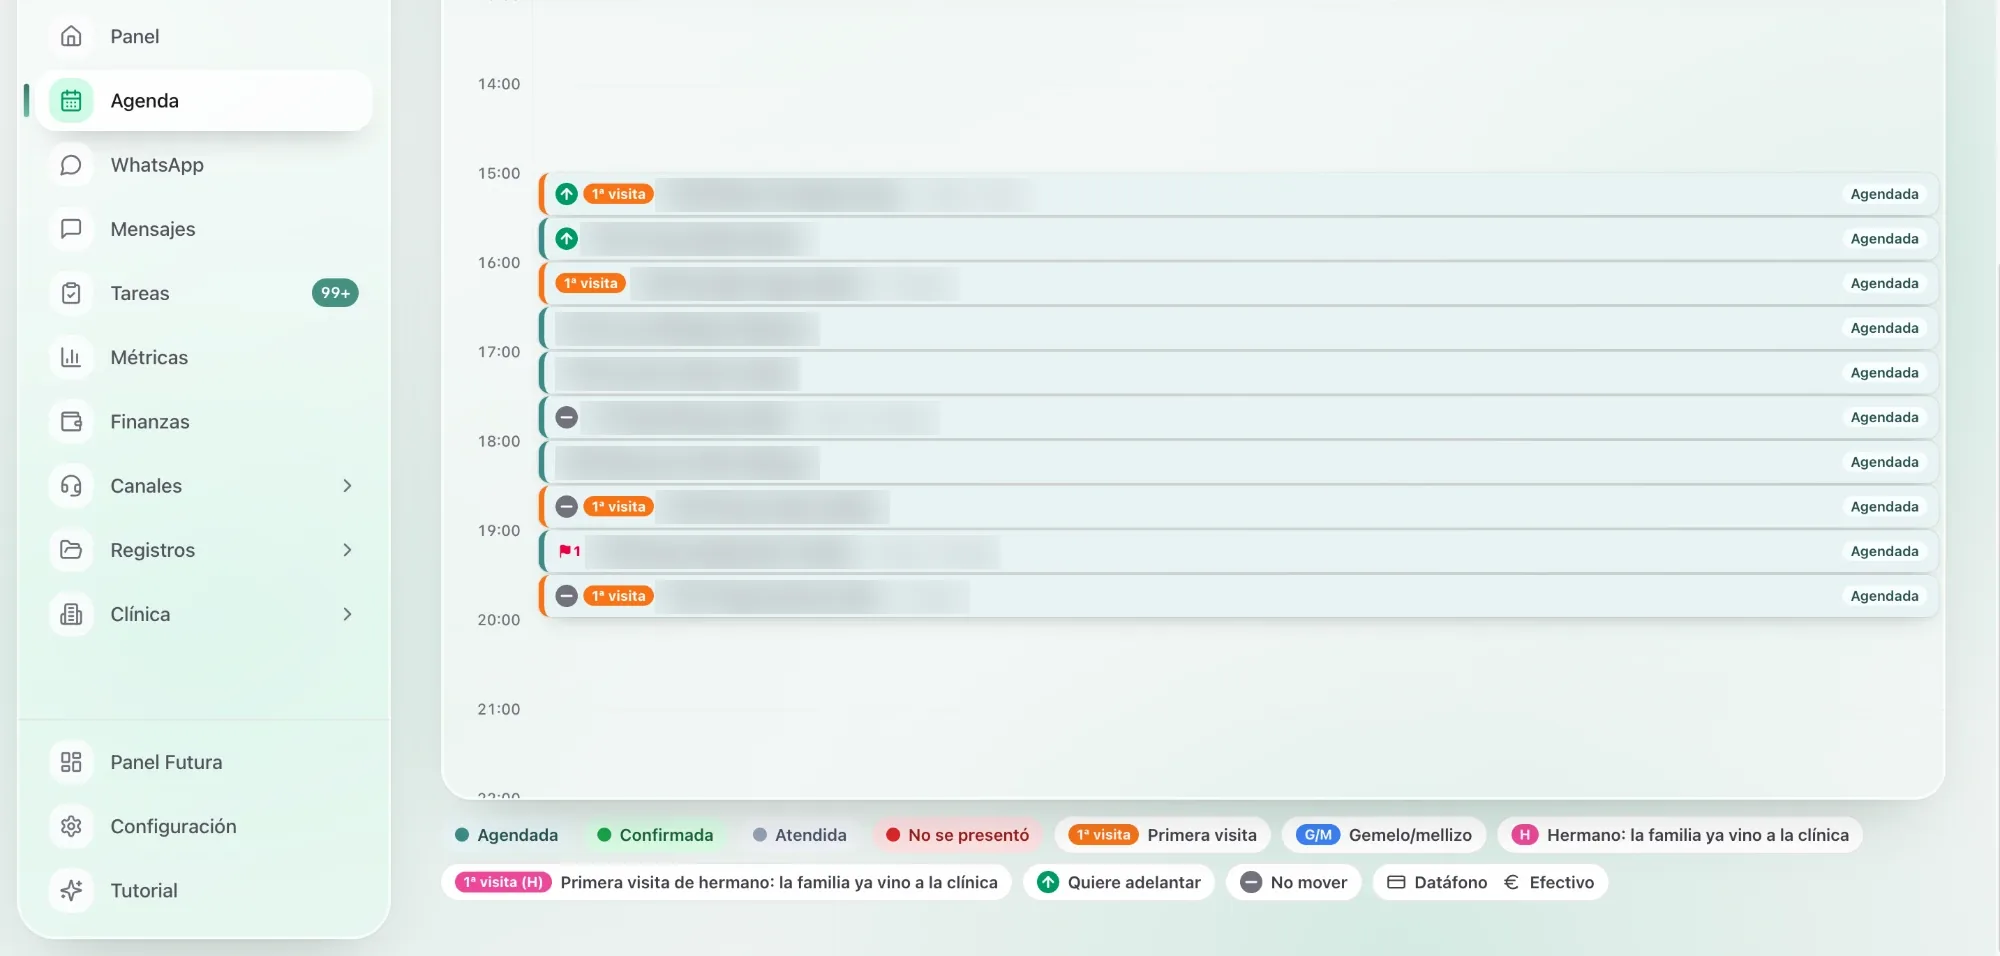
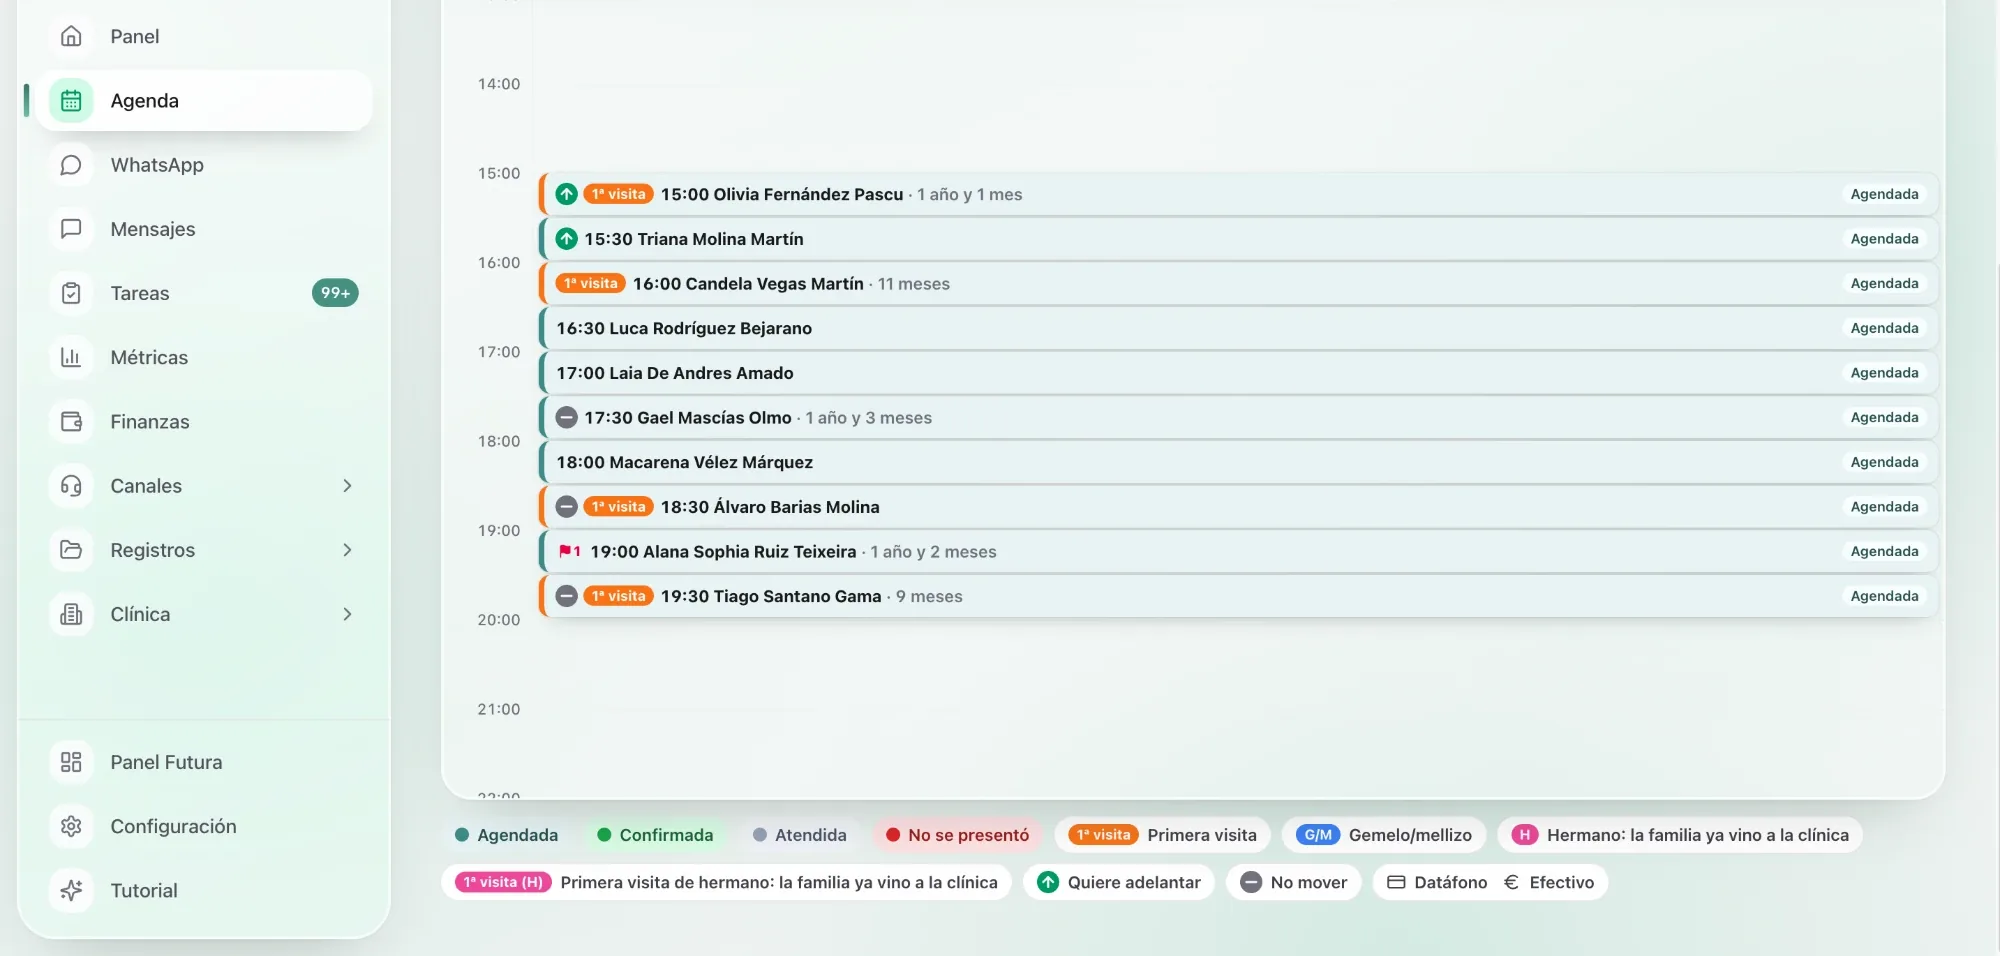
fix: FUTURA screenshots show names, Spain flag, clearer motions
- Screenshots: only phone numbers and patient surnames are blurred; panel
  and agenda are shown as-is
- Client tag uses an inline Spain flag instead of the country name
- FUTURA "dashboard and finance" motion: occupancy ring + KPI rows
- SYNEX Finanzas card preview: AI receipt validation (large, white on
  ember) instead of the P&L chart

Claude-Session: https://claude.ai/code/session_013VtYwE7Ekungkn3F8TWYDq

Changed region(s): [[0.279, 0.182, 0.496, 0.6674]]

diff --git a/src/lib/i18n.tsx b/src/lib/i18n.tsx
@@ -17,7 +17,7 @@ const translations: Record<Language, Translations> = {
     fin_v_comprobantes_benefit: "Menos riesgo",
     fin_v_entradas_benefit: "Más tiempo libre",
     synex_eyebrow: "Caso propio",
-    fu_tag: "Cliente · Futura Solutions (España)",
+    fu_tag: "Cliente · Futura Solutions",
     fu_shot_agenda: "Agenda del día con primeras visitas, estados y quién quiere adelantar.",
     fu_shot_wa: "Bandeja de WhatsApp con el resumen del caso generado por IA al lado de la conversación.",
     fu_card_roi: "Plataforma para clínicas y sanatorios **100% automatizada con IA**: agenda que se rellena sola, agentes de voz y WhatsApp.",
@@ -42,7 +42,7 @@ const translations: Record<Language, Translations> = {
     fu_v_tareas_desc: "El equipo coordina dentro de la app y **un mensaje se convierte en tarea** con un clic, con paciente y vencimiento.",
     fu_v_tareas_benefit: "Equipo coordinado",
     fu_v_panel_title: "Panel inteligente y finanzas",
-    fu_v_panel_desc: "Ocupación, faltas, ingresos y **lo que requiere atención hoy**, ordenado por urgencia.",
+    fu_v_panel_desc: "Ocupación, citas que agendó la IA, faltas e ingresos **en un solo vistazo**, con lo urgente primero.",
     fu_v_panel_benefit: "Mejores decisiones",
     fu_result: "Menos teléfono y menos tareas repetitivas, más agenda ocupada: el personal **gana tiempo para lo que importa**, atender pacientes.",
     synex_v_expediente_benefit: "Mejores decisiones",
@@ -272,7 +272,7 @@ const translations: Record<Language, Translations> = {
     fin_v_comprobantes_benefit: "Less risk",
     fin_v_entradas_benefit: "More free time",
     synex_eyebrow: "Own venture",
-    fu_tag: "Client · Futura Solutions (Spain)",
+    fu_tag: "Client · Futura Solutions",
     fu_shot_agenda: "Daily schedule with first visits, statuses and who wants an earlier slot.",
     fu_shot_wa: "WhatsApp inbox with the AI-generated case summary next to the conversation.",
     fu_card_roi: "A platform for clinics and hospitals, **100% automated with AI**: a self-filling schedule plus voice and WhatsApp agents.",
@@ -297,7 +297,7 @@ const translations: Record<Language, Translations> = {
     fu_v_tareas_desc: "The team coordinates inside the app and **a message becomes a task** in one click, with patient and due date.",
     fu_v_tareas_benefit: "A coordinated team",
     fu_v_panel_title: "Smart dashboard and finance",
-    fu_v_panel_desc: "Occupancy, no-shows, revenue and **what needs attention today**, ranked by urgency.",
+    fu_v_panel_desc: "Occupancy, AI-booked appointments, no-shows and revenue **at a glance**, urgent items first.",
     fu_v_panel_benefit: "Better decisions",
     fu_result: "Less phone time and fewer repetitive tasks, a fuller schedule: staff **get time back for what matters**, caring for patients.",
     synex_v_expediente_benefit: "Better decisions",

diff --git a/src/components/project/motions.tsx b/src/components/project/motions.tsx
@@ -121,21 +121,23 @@ export function MJourney() {
 
 /* ---------------- SYNEX FINANZAS ---------------- */
 
-// Receipts: AI reads the receipt and checks it matches the price
-export function MReceipt() {
+// Receipts: AI reads the receipt and checks it matches the price.
+// `tone="ember"` renders white-on-orange for cover panels.
+export function MReceipt({ tone = "dark", big = false }: { tone?: "dark" | "ember"; big?: boolean }) {
   const fields = ["monto", "fecha", "banco"];
+  const ember = tone === "ember";
   return (
-    <div className="absolute inset-0 flex items-center justify-center gap-5 px-6">
-      <div className="relative w-16 h-[76px] rounded-lg bg-white/[0.08] border border-white/15 overflow-hidden px-2 py-2 flex flex-col gap-1.5">
+    <div className={`absolute inset-0 flex items-center justify-center px-6 ${big ? "gap-9" : "gap-5"}`}>
+      <div className={`relative overflow-hidden flex flex-col ${big ? "w-28 h-[136px] rounded-xl px-3.5 py-3.5 gap-2.5" : "w-16 h-[76px] rounded-lg px-2 py-2 gap-1.5"} ${ember ? "bg-white/20 border border-white/40" : "bg-white/[0.08] border border-white/15"}`}>
         {[80, 60, 70, 45, 65].map((w, i) => (
-          <span key={i} className="h-1 rounded-full bg-white/25" style={{ width: `${w}%` }} />
+          <span key={i} className={`${big ? "h-1.5" : "h-1"} rounded-full ${ember ? "bg-white/70" : "bg-white/25"}`} style={{ width: `${w}%` }} />
         ))}
-        <span className="fx-read absolute inset-x-0 h-4 bg-gradient-to-b from-transparent via-ember-500/40 to-transparent" />
+        <span className={`fx-read absolute inset-x-0 ${big ? "h-8" : "h-4"} bg-gradient-to-b from-transparent ${ember ? "via-white/70" : "via-ember-500/40"} to-transparent`} style={big ? { ["--scan" as string]: "170px" } : undefined} />
       </div>
-      <div className="flex flex-col gap-1.5">
+      <div className={`flex flex-col ${big ? "gap-3" : "gap-1.5"}`}>
         {fields.map((f, i) => (
-          <span key={f} className="fx-field flex items-center gap-2 text-[10px] text-white/70" style={{ ["--i" as string]: i }}>
-            <span className="fx-check w-3.5 h-3.5 rounded-full grid place-items-center bg-ember-500 text-[8px] text-white">✓</span>
+          <span key={f} className={`fx-field flex items-center ${big ? "gap-3 text-[15px] font-medium" : "gap-2 text-[10px]"} ${ember ? "text-white" : "text-white/70"}`} style={{ ["--i" as string]: i }}>
+            <span className={`fx-check rounded-full grid place-items-center ${big ? "w-6 h-6 text-[12px]" : "w-3.5 h-3.5 text-[8px]"} ${ember ? "bg-white text-ember-600" : "bg-ember-500 text-white"}`}>✓</span>
             {f}
           </span>
         ))}

diff --git a/src/components/project/futura-motions.tsx b/src/components/project/futura-motions.tsx
@@ -128,23 +128,35 @@ export function MTasks() {
   );
 }
 
-// Smart dashboard: what needs attention, ranked
+// Smart dashboard: occupancy ring fills, key KPIs come in
 export function MDashboard() {
-  const items = [
-    ["20", "sin confirmar"],
-    ["19", "esperan respuesta"],
-    ["4", "huecos ofrecidos"],
+  const kpis = [
+    { l: "Citas por IA", v: "72", d: "▲", up: true },
+    { l: "Faltas", v: "7,8%", d: "▼", up: false },
   ];
   return (
-    <Frame label="Requiere atención">
-      <div className="absolute inset-0 flex flex-col justify-center gap-1.5">
-        {items.map(([n, l], i) => (
-          <div key={l} className="fu-row flex items-center gap-3" style={{ ["--i" as string]: i }}>
-            <span className={`w-8 text-[15px] font-semibold tabular-nums ${i === 0 ? "text-ember-400" : "text-white"}`}>{n}</span>
-            <span className="text-[10px] text-white/55">{l}</span>
-            <span className="ml-auto h-px w-10 bg-white/10" />
-          </div>
-        ))}
+    <Frame label="Panel del mes">
+      <div className="absolute inset-0 flex items-center gap-6">
+        <div className="relative w-[72px] h-[72px] shrink-0">
+          <svg viewBox="0 0 64 64" className="w-full h-full -rotate-90">
+            <circle cx="32" cy="32" r="26" fill="none" stroke="rgba(255,255,255,0.08)" strokeWidth="6" />
+            <circle className="fu-ring" cx="32" cy="32" r="26" fill="none" stroke="#FF5A1F" strokeWidth="6" strokeLinecap="round" pathLength={100} />
+          </svg>
+          <span className="absolute inset-0 flex flex-col items-center justify-center leading-none">
+            <span className="text-[15px] font-semibold text-white">68%</span>
+            <span className="mt-1 text-[7px] font-semibold tracking-[0.14em] text-white/45">OCUPACIÓN</span>
+          </span>
+        </div>
+        <div className="flex-1 flex flex-col gap-2.5">
+          {kpis.map((k, i) => (
+            <div key={k.l} className="fu-row flex items-baseline justify-between border-b border-white/[0.07] pb-1.5" style={{ ["--i" as string]: i + 1 }}>
+              <span className="text-[10px] text-white/55">{k.l}</span>
+              <span className="text-[14px] font-semibold text-white tabular-nums">
+                {k.v} <span className={`text-[9px] ${k.up ? "text-ember-400" : "text-white/50"}`}>{k.d}</span>
+              </span>
+            </div>
+          ))}
+        </div>
       </div>
     </Frame>
   );

diff --git a/src/components/FinanzasProject.tsx b/src/components/FinanzasProject.tsx
@@ -4,22 +4,22 @@ import { useAudio } from "@/lib/audio";
 import { rich } from "@/lib/rich";
 import { useLanguage } from "@/lib/i18n";
 import { Tag, SynexLogo, CaseCover, CaseIntro, StatPair, ValueCard, CardFooterLink } from "@/components/project/kit";
-import { PnlChart, MPnl, MPace, MTeam, MReceipt, MTicket } from "@/components/project/motions";
+import { MPnl, MPace, MTeam, MReceipt, MTicket } from "@/components/project/motions";
 
 const VALUES = [
   { k: "pnl", M: MPnl },
   { k: "pulso", M: MPace },
   { k: "equipo", M: MTeam },
-  { k: "comprobantes", M: MReceipt },
+  { k: "comprobantes", M: () => <MReceipt /> },
   { k: "entradas", M: MTicket },
 ];
 
-/* Orange glass panel holding the live P&L chart */
-function EmberPnl({ className = "" }: { className?: string }) {
+/* Orange glass panel with the AI receipt validation */
+function EmberReceipt({ className = "" }: { className?: string }) {
   return (
     <div className={`pm-stage glass-ember absolute rounded-[20px] overflow-hidden ${className}`}>
       <div className="relative z-10 w-full h-full">
-        <PnlChart tone="ember" label="P&L · Evento 02" />
+        <MReceipt tone="ember" big />
       </div>
     </div>
   );
@@ -51,7 +51,7 @@ export function FinanzasCard({ onOpen }: { onOpen: () => void }) {
     >
       <div className="relative z-10 aspect-[16/10] rounded-[22px] overflow-hidden bg-[radial-gradient(120%_100%_at_50%_100%,#2a0e05_0%,#100807_45%,#070606_100%)]">
         <FinStage>
-          <EmberPnl className="inset-x-[9%] top-[14%] bottom-[14%] shadow-[0_30px_60px_-20px_rgba(255,90,31,0.55)] transition-transform duration-700 ease-[cubic-bezier(0.16,1,0.3,1)] group-hover:scale-[1.02]" />
+          <EmberReceipt className="inset-x-[9%] top-[14%] bottom-[14%] shadow-[0_30px_60px_-20px_rgba(255,90,31,0.55)] transition-transform duration-700 ease-[cubic-bezier(0.16,1,0.3,1)] group-hover:scale-[1.02]" />
         </FinStage>
       </div>
 
@@ -78,7 +78,7 @@ export function FinanzasDetail() {
     <>
       <CaseCover product="Finanzas">
         <FinStage>
-          <EmberPnl className="left-[7%] right-[7%] top-[22%] bottom-[10%] shadow-[0_30px_60px_-20px_rgba(255,90,31,0.55)]" />
+          <EmberReceipt className="left-[7%] right-[7%] top-[22%] bottom-[10%] shadow-[0_30px_60px_-20px_rgba(255,90,31,0.55)]" />
         </FinStage>
       </CaseCover>
 

diff --git a/src/components/FuturaProject.tsx b/src/components/FuturaProject.tsx
@@ -3,7 +3,7 @@
 import { useAudio } from "@/lib/audio";
 import { rich } from "@/lib/rich";
 import { useLanguage } from "@/lib/i18n";
-import { Tag, CaseIntro, StatPair, ValueCard, CardFooterLink } from "@/components/project/kit";
+import { Tag, FlagES, CaseIntro, StatPair, ValueCard, CardFooterLink } from "@/components/project/kit";
 import { MAgenda, MVoice, MWhatsApp, MRecord, MTasks, MDashboard } from "@/components/project/futura-motions";
 
 const VALUES = [
@@ -49,7 +49,7 @@ export function FuturaCard({ onOpen }: { onOpen: () => void }) {
         <div className="absolute inset-0 bg-gradient-to-t from-black/45 via-transparent to-transparent" />
       </div>
       <div className="relative z-10 flex-1 flex flex-col px-4 pt-5 pb-4">
-        <span className="text-[12px] font-medium text-ember-400"><span className="font-semibold">{"//"}</span> {t("fu_tag")}</span>
+        <span className="inline-flex items-center gap-1.5 text-[12px] font-medium text-ember-400"><span className="font-semibold">{"//"}</span> {t("fu_tag")} <FlagES /></span>
         <h3 className="mt-3 mb-1"><FuturaLogo /></h3>
         <p className="mt-2 text-sm leading-relaxed text-white/55 flex-1">{rich(t("fu_card_roi"))}</p>
         <div className="mt-5 flex flex-wrap gap-1.5">
@@ -71,7 +71,7 @@ export function FuturaDetail() {
                 <div className="absolute left-4 bottom-4 rounded-full bg-black/70 backdrop-blur-md border border-white/10 px-4 py-2"><FuturaLogo size={16} /></div>
       </div>
 
-      <CaseIntro eyebrow={t("fu_tag")} title={t("fu_title")} desc={t("fu_desc")} />
+      <CaseIntro eyebrow={<>{t("fu_tag")} <FlagES /></>} title={t("fu_title")} desc={t("fu_desc")} />
       <StatPair a={["94%", t("fu_stat_1")]} b={["60%", t("fu_stat_2")]} />
 
       <div className="mt-6 grid gap-3">

diff --git a/src/components/project/kit.tsx b/src/components/project/kit.tsx
@@ -25,10 +25,10 @@ export function CaseCover({ product, children }: { product?: string; children: R
   );
 }
 
-export function CaseIntro({ eyebrow, title, desc }: { eyebrow: string; title: string; desc: string }) {
+export function CaseIntro({ eyebrow, title, desc }: { eyebrow: ReactNode; title: string; desc: string }) {
   return (
     <div className="mt-7">
-      <span className="text-[13px] font-medium text-ember-400"><span className="font-semibold">{"//"}</span> {eyebrow}</span>
+      <span className="inline-flex items-center gap-1.5 text-[13px] font-medium text-ember-400"><span className="font-semibold">{"//"}</span> {eyebrow}</span>
       <h3 className="mt-2 text-3xl md:text-[2.4rem] leading-[1.05] font-semibold tracking-[-0.035em] text-white">{title}</h3>
       <p className="mt-4 text-base md:text-lg leading-relaxed text-white/65">{rich(desc)}</p>
     </div>
@@ -77,5 +77,15 @@ export function CardFooterLink({ label }: { label: string }) {
       {label}
       <svg viewBox="0 0 24 24" fill="none" className="w-4 h-4 transition-transform duration-500 group-hover:translate-x-1"><path d="M5 12h14M13 6l6 6-6 6" stroke="currentColor" strokeWidth="2" strokeLinecap="round" strokeLinejoin="round" /></svg>
     </span>
+  );
+}
+
+/* Spain flag (inline SVG: emoji flags don't render on Windows) */
+export function FlagES({ className = "" }: { className?: string }) {
+  return (
+    <svg viewBox="0 0 3 2" className={`inline-block w-[18px] h-3 rounded-[2px] shadow-[0_0_0_1px_rgba(255,255,255,0.15)] ${className}`} aria-label="España">
+      <rect width="3" height="2" fill="#AA151B" />
+      <rect y="0.5" width="3" height="1" fill="#F1BF00" />
+    </svg>
   );
 }

diff --git a/src/app/globals.css b/src/app/globals.css
@@ -637,13 +637,15 @@ html.lite .line-drift { animation: none; }
 
 /* Receipt validation (Finanzas) */
 .fx-read { top: -16px; animation: fx-read 3.6s ease-in-out infinite; }
-@keyframes fx-read { 0% { transform: translateY(0); } 45%, 100% { transform: translateY(96px); } }
+@keyframes fx-read { 0% { transform: translateY(0); } 45%, 100% { transform: translateY(var(--scan, 96px)); } }
 .fx-field { opacity: 0.35; animation: fx-field 3.6s ease infinite; animation-delay: calc(0.5s + var(--i) * 0.35s); }
 @keyframes fx-field { 0%, 5% { opacity: 0.35; } 15%, 75% { opacity: 1; } 90%, 100% { opacity: 0.35; } }
 .fx-check { transform: scale(0); animation: fx-check 3.6s cubic-bezier(0.34, 1.56, 0.64, 1) infinite; animation-delay: calc(0.5s + var(--i) * 0.35s); }
 @keyframes fx-check { 0%, 5% { transform: scale(0); } 15%, 75% { transform: scale(1); } 90%, 100% { transform: scale(0); } }
 
 /* ---- Futura motions ---- */
+.fu-ring { stroke-dasharray: 100; stroke-dashoffset: 100; animation: fu-ring 6s cubic-bezier(0.65, 0, 0.35, 1) infinite; }
+@keyframes fu-ring { 0%, 6% { stroke-dashoffset: 100; opacity: 1; } 42%, 86% { stroke-dashoffset: 32; opacity: 1; } 96% { stroke-dashoffset: 32; opacity: 0; } 100% { stroke-dashoffset: 100; opacity: 0; } }
 .fu-fill { transform-origin: left; animation: fu-fill 6s cubic-bezier(0.16, 1, 0.3, 1) infinite; }
 @keyframes fu-fill { 0%, 22% { transform: scaleX(0); opacity: 0; } 34%, 84% { transform: scaleX(1); opacity: 1; } 94%, 100% { transform: scaleX(1); opacity: 0; } }
 .fu-wave { transform-origin: center; animation: fu-wave 1.1s ease-in-out infinite alternate; animation-delay: calc(var(--i) * -0.13s); }
